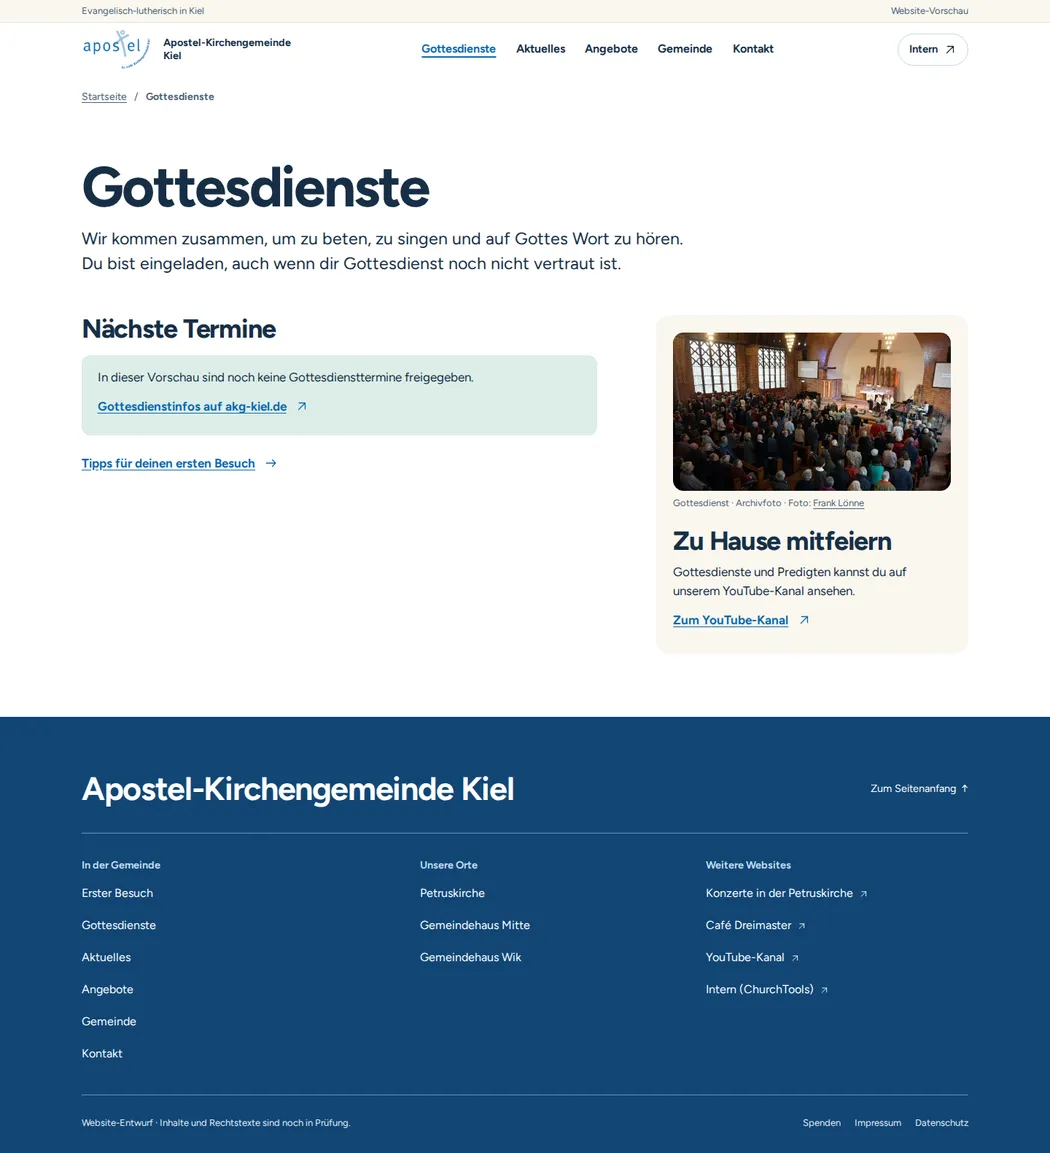
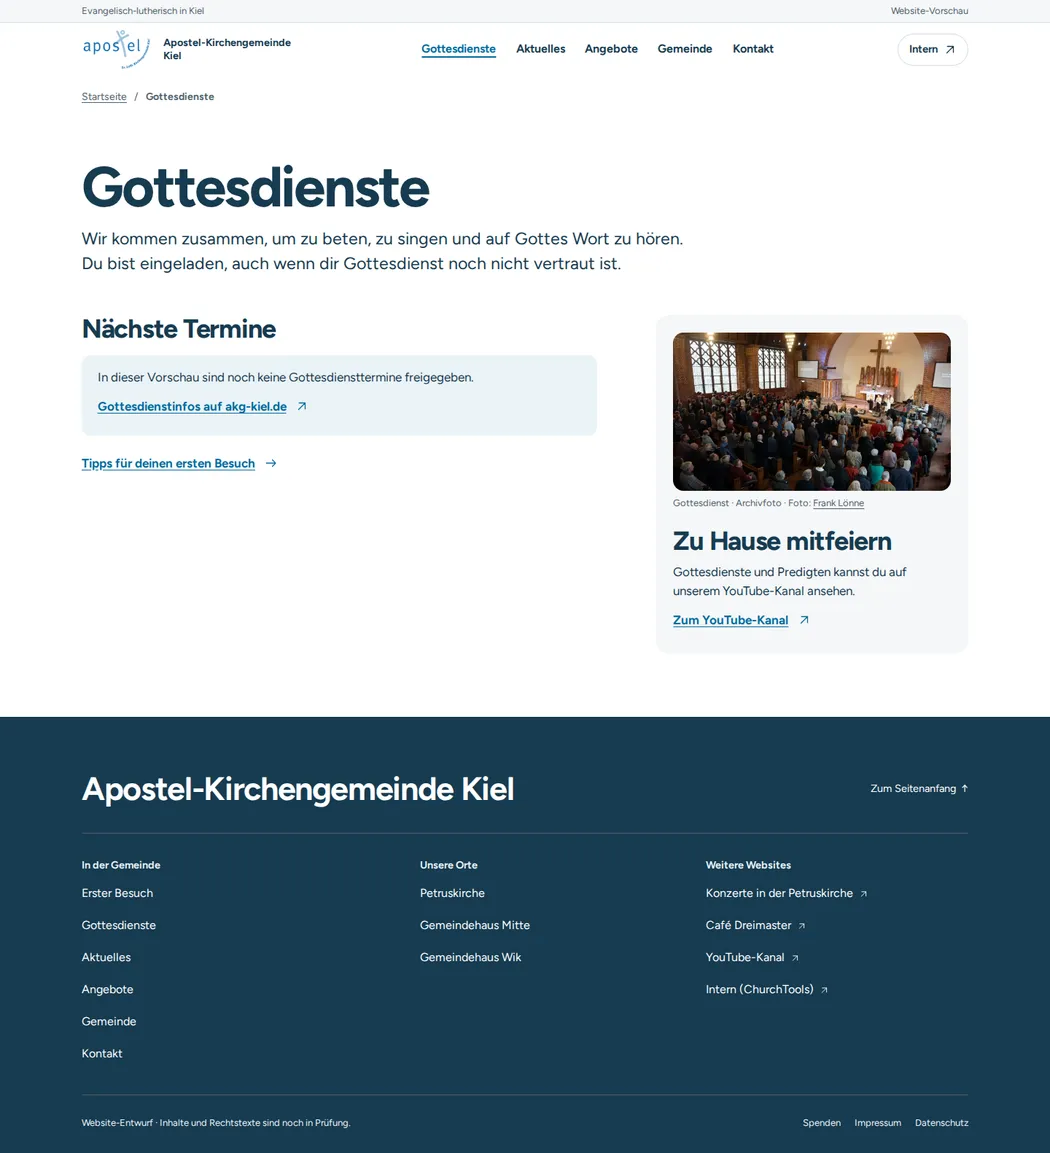
Restore the established AKG brand colors and separate their roles

diff --git a/src/styles/welcome.css b/src/styles/welcome.css
@@ -1,14 +1,11 @@
 .welcome {
   display: flex;
   flex-direction: column;
-  background: var(--deep);
-  color: white;
-  --focus: var(--sun);
+  background: var(--sky);
 }
 .welcome > .parish-photo {
   order: -1;
   position: relative;
-  background: var(--deep);
 }
 .welcome > .parish-photo img {
   width: 100%;
@@ -21,7 +18,8 @@
   right: max(var(--gutter), calc((100% - var(--measure)) / 2));
   bottom: 0.7rem;
   max-width: calc(100% - var(--gutter)*2);
-  background: var(--deep);
+  --focus: var(--sun);
+  background: var(--ink);
   color: white;
   padding: 0.26rem 0.6rem;
   margin: 0;
@@ -41,7 +39,6 @@
   font-size: clamp(2.3rem, 4.3vw, 4.25rem);
   letter-spacing: -0.04em;
   line-height: 1.05;
-  color: white;
 }
 .welcome-band::before {
   content: '';
@@ -50,13 +47,12 @@
   left: calc((100% - 100vw) / 2);
   width: calc((100vw - 100%) / 2 + 42%);
   height: 2.15rem;
-  background: var(--deep);
+  background: var(--sky);
   border-top-right-radius: 4rem;
 }
 .welcome-band h1 strong {
   display: block;
   font-weight: 750;
-  color: var(--sun);
   font-size: clamp(3.8rem, 7.9vw, 7rem);
   line-height: 0.98;
 }
@@ -64,7 +60,6 @@
   max-width: 40ch;
   font-size: clamp(1.12rem, 1.55vw, 1.34rem);
   line-height: 1.45;
-  color: #f0f6fb;
 }
 .welcome-actions {
   display: flex;
@@ -73,18 +68,8 @@
   gap: 0.4rem 1.3rem;
   margin-top: 1.15rem;
 }
-.welcome-actions .action {
-  background: var(--sun);
-  color: var(--deep);
-}
-.welcome-actions .action:hover {
-  background: #fff1c8;
-}
 .welcome-actions .route-link {
-  color: white;
-}
-.sunday {
-  background: var(--mint);
+  color: var(--ink);
 }
 .sunday-line {
   display: grid;
@@ -117,6 +102,9 @@
   color: var(--ink);
   font-weight: 580;
 }
+.community {
+  background: var(--green-wash);
+}
 .together {
   padding-block: var(--space);
   display: grid;
@@ -134,13 +122,14 @@
   position: absolute;
   z-index: -1;
   inset: 1.3rem 0 1.8rem 1.25rem;
-  background: var(--mint);
+  background: white;
   border-start-end-radius: clamp(3rem, 8vw, 7.5rem);
 }
 .together-picture img {
   border-start-end-radius: clamp(3rem, 8vw, 7.5rem);
 }
 .together-text h2 {
+  color: var(--green);
   font-size: clamp(2.2rem, 4.5vw, 4.3rem);
 }
 .together-text > p {
@@ -162,7 +151,7 @@
   border-top: 1px solid var(--line);
   text-decoration: none;
   font-weight: 680;
-  color: var(--blue);
+  color: var(--ink);
 }
 .together-choices a:hover,
 .update-list a:hover {
@@ -187,7 +176,6 @@
   color: var(--blue);
 }
 .updates {
-  background: var(--sand);
   padding-block: clamp(2.5rem, 5vw, 4.5rem);
 }
 .update-intro {

diff --git a/src/styles/site.css b/src/styles/site.css
@@ -9,16 +9,16 @@
 }
 :root {
   --display: Figtree, system-ui, sans-serif;
-  --ink: #172f46;
-  --deep: #124675;
-  --blue: #0c68b0;
-  --sky: #e6f1fa;
-  --mint: #dceee8;
-  --sand: #faf7ef;
-  --sun: #ffe39c;
-  --muted: #4a6175;
-  --line: #c6d5df;
-  --focus: #ac4216;
+  --ink: #173b50;
+  --blue: #006c9e;
+  --sky: #eaf3f7;
+  --green: #1a7663;
+  --green-wash: #e8f1ef;
+  --surface: #f4f7f8;
+  --sun: #f2d38b;
+  --muted: #50616c;
+  --line: #cfdbdf;
+  --focus: #aa420d;
   --space: clamp(3rem, 6vw, 6rem);
   --gutter: clamp(16px, 4.7vw, 4.5rem);
   --measure: 76rem;
@@ -124,7 +124,7 @@ main:focus {
   border: 1px solid transparent;
 }
 .action:hover {
-  background: var(--deep);
+  background: var(--ink);
 }
 .route-link {
   color: var(--blue);
@@ -165,8 +165,8 @@ a svg {
   z-index: 3;
 }
 .mast-status {
-  background: var(--sand);
-  border-bottom: 1px solid #e6e4da;
+  background: var(--surface);
+  border-bottom: 1px solid var(--line);
   color: var(--muted);
   font-size: 0.8125rem;
   line-height: 1.45;
@@ -256,13 +256,13 @@ a svg {
 }
 .intern-link:hover,
 .menu summary:hover {
-  background: var(--mint);
+  background: var(--sky);
 }
 .menu {
   display: none;
 }
 .colophon {
-  background: var(--deep);
+  background: var(--ink);
   color: #fff;
   --focus: var(--sun);
   padding-block: clamp(2.5rem, 5vw, 4rem) 1.2rem;
@@ -277,7 +277,7 @@ a svg {
 }
 .foot-head {
   padding-bottom: 1.6rem;
-  border-bottom: 1px solid #7194b4;
+  border-bottom: 1px solid var(--muted);
 }
 .foot-head p {
   font-weight: 680;
@@ -296,7 +296,7 @@ a svg {
 .foot-columns h2 {
   font: 650 0.9rem/1.4 var(--display);
   letter-spacing: 0;
-  color: #c3ddf3;
+  color: var(--sky);
   margin-bottom: 0.45rem;
 }
 .foot-columns a {
@@ -306,10 +306,10 @@ a svg {
   width: 0.8em;
 }
 .foot-end {
-  border-top: 1px solid #7194b4;
+  border-top: 1px solid var(--muted);
   padding-top: 1rem;
   font-size: 0.8125rem;
-  color: #e0edf7;
+  color: var(--sky);
 }
 .foot-end nav {
   flex-wrap: wrap;
@@ -351,7 +351,7 @@ a svg {
     background: white;
     color: var(--ink);
     border-block: 1px solid var(--line);
-    box-shadow: 0 1.5rem 2rem -1.2rem #14395d50;
+    box-shadow: 0 1.5rem 2rem -1.2rem color-mix(in srgb, var(--ink) 22%, transparent);
   }
   .menu-sheet > .wrap {
     padding-block: 0.7rem 1.2rem;

diff --git a/src/styles/interior.css b/src/styles/interior.css
@@ -76,19 +76,19 @@
   margin-top: 0.8rem;
 }
 .in-band {
-  background: var(--sand);
+  background: var(--surface);
 }
 .in-tint {
   background: var(--sky);
 }
 .in-panel {
-  background: var(--sand);
+  background: var(--surface);
   padding: clamp(1.5rem, 4vw, 3rem);
   border-radius: 1.25rem;
 }
 .in-notice {
   padding: 1.1rem 1.35rem;
-  background: var(--mint);
+  background: var(--sky);
   border-radius: 0.75rem;
 }
 .in-notice p + p {
@@ -121,7 +121,7 @@
 }
 .in-side-feature {
   padding: clamp(1rem, 2vw, 1.5rem);
-  background: var(--sand);
+  background: var(--surface);
   border-radius: 1.2rem;
 }
 .in-side-feature h2 {
@@ -132,7 +132,7 @@
   margin-top: 0.3rem;
 }
 .in-side-nav {
-  background: var(--sand);
+  background: var(--surface);
   border-radius: 1rem;
   padding: clamp(1.3rem, 3vw, 2rem);
 }
@@ -162,7 +162,7 @@
 }
 .in-history dt {
   font-size: 1.45rem;
-  color: var(--blue);
+  color: var(--ink);
   font-weight: 700;
 }
 .in-detail {
@@ -175,7 +175,7 @@
   margin-top: 1.5rem;
 }
 .in-detail .in-panel {
-  background: var(--mint);
+  background: var(--sky);
 }
 .in-article-body,
 .offer-description {
@@ -205,7 +205,7 @@
   padding: 1.2rem 0.25rem;
 }
 .in-entry-link:hover {
-  background: var(--sand);
+  background: var(--surface);
 }
 .in-directory h3 {
   font-size: clamp(1.3rem, 2.4vw, 1.75rem);
@@ -266,7 +266,7 @@
   border-bottom: 1px solid var(--line);
 }
 .in-offer[open] {
-  background: var(--sand);
+  background: var(--surface);
 }
 .in-offer summary {
   display: flex;
@@ -282,7 +282,7 @@
   display: none;
 }
 .in-offer summary:hover {
-  background: var(--mint);
+  background: var(--sky);
 }
 .in-offer-body {
   padding: 0.1rem 0.75rem 1.2rem;
@@ -294,7 +294,7 @@
   display: grid;
   place-items: center;
   border-radius: 50%;
-  background: var(--mint);
+  background: var(--sky);
   color: var(--blue);
 }
 .in-plus::before,
@@ -308,9 +308,7 @@
 .in-plus::after {
   transform: rotate(90deg);
 }
-.in-offer[open] .in-plus {
-  background: var(--sun);
-}
+
 .in-offer[open] .in-plus::after {
   display: none;
 }

diff --git a/docs/design.md b/docs/design.md
@@ -2,7 +2,7 @@
 
 Ausgangspunkt ist [die bestehende Gemeindewebsite](https://akg-kiel.de/). Beim Rundgang fallen die Einladung zum Gottesdienst und der Eintrag „Neu hier“ unter vielen Angeboten auf. Der Neubau macht daraus einen eigenen Weg **Erster Besuch**: Was erwartet mich, wo erfahre ich etwas über die Gemeinde und wie komme ich zum Gemeindebüro? Wer schon dazugehört, kann Gottesdienste, Aktuelles und Gruppen direkt ansteuern.
 
-**Gestaltung:** eine breite Aufnahme aus einem tatsächlichen Gottesdienst, darunter die Einladung auf tiefem Blau. Das Original-Logo gibt den Blauton für Links und Aktionen vor; Gelb hebt die Einladung hervor, Mint den anschließenden Gottesdienststreifen. Die Texte liegen nicht über den Gesichtern. Der erste Link führt zu `/besuch`; der folgende Terminstreifen funktioniert mit oder ohne freigegebene Daten. Schrift: lokal geladene Figtree. Original-Logo und [belegte Bildquellen](brand-spec.md) bleiben. Die alte Galerie, ihre Generatoren, Seitenbausteine und Styles sind kein Bestandteil dieser Website. Fotos können später über das zentrale Bildregister ersetzt werden, ohne die Besuchswege neu zu bauen.
+**Gestaltung:** eine breite Aufnahme aus einem tatsächlichen Gottesdienst, darunter die Einladung in Dunkelblau auf Hellblau. Nur „Mein erster Besuch“ ist als aktionsblauer Button gefüllt. Der weiße Gottesdienststreifen trennt die Einladung vom grünen Gemeinschaftsbereich. Die Farben folgen dem bestehenden AKG-Farbsystem, nicht einer Ableitung aus den Logo-Pixeln. Die Texte liegen nicht über den Gesichtern. Der erste Link führt zu `/besuch`; der folgende Terminstreifen funktioniert mit oder ohne freigegebene Daten. Schrift: lokal geladene Figtree. Original-Logo und [belegte Bildquellen](brand-spec.md) bleiben. Die alte Galerie, ihre Generatoren, Seitenbausteine und Styles sind kein Bestandteil dieser Website. Fotos können später über das zentrale Bildregister ersetzt werden, ohne die Besuchswege neu zu bauen.
 
 **Produktgrenzen:** Konzerte werden nicht beworben wie eine zweite Startseite. Der Programmverweis führt auf `petruskirche.events`, das Café zu seinem eigenen Auftritt. Für die angekündigte Gebäudeseite gibt es keinen geratenen Link. Die Vorschau kann auf die derzeitige Gemeindewebsite verweisen, statt ungeprüfte Angaben abzuschreiben. Keine Einbettung oder WordPress-Abfrage beim Seitenaufruf.
 

diff --git a/docs/review-akg-130/README.md b/docs/review-akg-130/README.md
@@ -11,7 +11,7 @@ Aufnahmen des tatsächlichen Astro-/Worker-Builds ohne Live-Token. Die WebP-Date
 
 Bei der Sichtprüfung standen nicht die früheren Entwürfe, sondern die Wege zwischen den Seiten im Vordergrund. So bekam der Besuchsweg einen direkten Verweis auf die Gemeindeorte; in der Vorschau führen klar beschriftete Links auch zu den Angaben auf der aktuellen Website. Ein Bildquellenlink ist bedienbar, das Foto selbst kein versteckter Button. Nach dem Sprung zum Hauptinhalt ist die erste Aktion der Besuchsweg und nicht der Fotografennachweis.
 
-Nach der Farbrückmeldung führen das gemessene Logo-Blau und seine Abstufungen durch die Seiten; Mint und Gelb bleiben als Akzente. Die Kontraste liegen bei 5,80:1 für Weiß auf Logo-Blau, 4,81:1 für Logo-Blau auf Mint und 7,75:1 für Gelb auf Dunkelblau.
+Die Farbprüfung folgt den bestehenden AKG-Rollen: dunkelblaue Einladung auf Hellblau (10,50:1), weißer Text auf dem aktionsblauen Besuchsbutton (5,77:1) und eine grüne Überschrift auf Hellgrün im räumlich getrennten Gemeinschaftsabschnitt (4,79:1). Die Aufnahmen zeigen alle drei Anwendungen im Seitenzusammenhang.
 
 Die Schlussprüfung zeigte, dass das aufgeklappte mobile Menü ohne JavaScript den nächsten Tastaturfokus verdeckte. Es schiebt den Inhalt jetzt nach unten; der Browsertest tabbt bis zum Link „Startseite“ hinter dem Menü und prüft, dass er nicht verdeckt ist. Im befüllten Test findet die Gruppensuche auch den vollständigen angezeigten Namen mit einem Zeilenumbruch in der Quelle. Ein lokaler Worker-Test rendert den Besuchsweg, Kontakt und Spenden für beide künftigen Produktionshosts, ohne die heutige Website aufzurufen: Die temporären Verweise sind dort nicht vorhanden.
 

diff --git a/docs/brand-spec.md b/docs/brand-spec.md
@@ -7,7 +7,11 @@
 
 ## Farbe
 
-Das Blau der Wortmarke (`#0C68B0`, aus der Logo-Datei gemessen) führt bei Links, aktiver Navigation und Schaltflächen. Einladung und Fußzeile verwenden die dunklere Website-Abstufung `#124675`, die Besuchsseite einen hellen Blauton. Mint kennzeichnet den Gottesdienststreifen und Datenhinweise; warmes Gelb hebt auf Dunkelblau „Apostel.“ und „Mein erster Besuch“ hervor. Die Abstufungen sind für diese Website gewählt, nicht als allgemein verbindliche Markenwerte ausgegeben.
+Quelle sind die Farbrollen aus [Brand Design erstellen](t3-thread://v1/daf8d6f2-1e42-476a-b655-41e51669b14d) und die [Farbentscheidung des früheren Umbaus](https://github.com/akg-kiel/web-akg/blob/f438f18/src/styles/globals.css). Logo und UI haben bewusst unterschiedliche Blautöne. Die Website nutzt pro Abschnitt einen Modus, nicht die gesamte Palette gleichzeitig:
+
+- **Einladung und Besuchsweg:** Titel und Lesetext in Dunkelblau `#173B50` auf Hellblau `#EAF3F7` oder Weiß. Die wichtigste Handlung ist weiß auf Aktionsblau `#006C9E`; weitere Wege bleiben Textlinks. Nachweise und Begleittext sind blaugrau `#50616C`.
+- **Gemeinschaft:** Grün `#1A7663` auf Hellgrün `#E8F1EF` nur bei „Menschen kennenlernen“. Es ist kein Statuscode für Termine oder Quellenfreigaben.
+- **Warme Farben:** Sonnengelb `#F2D38B` für Textauswahl und den Fokus auf dunklem Grund, Rostorange `#AA420D` für den Fokus auf hellen Flächen. Kein zusätzlicher warmer Titel, Button oder Seitenhintergrund im blauen Modus.
 
 ## Fotos: Herkunft und Auslieferungsentscheidung
 
